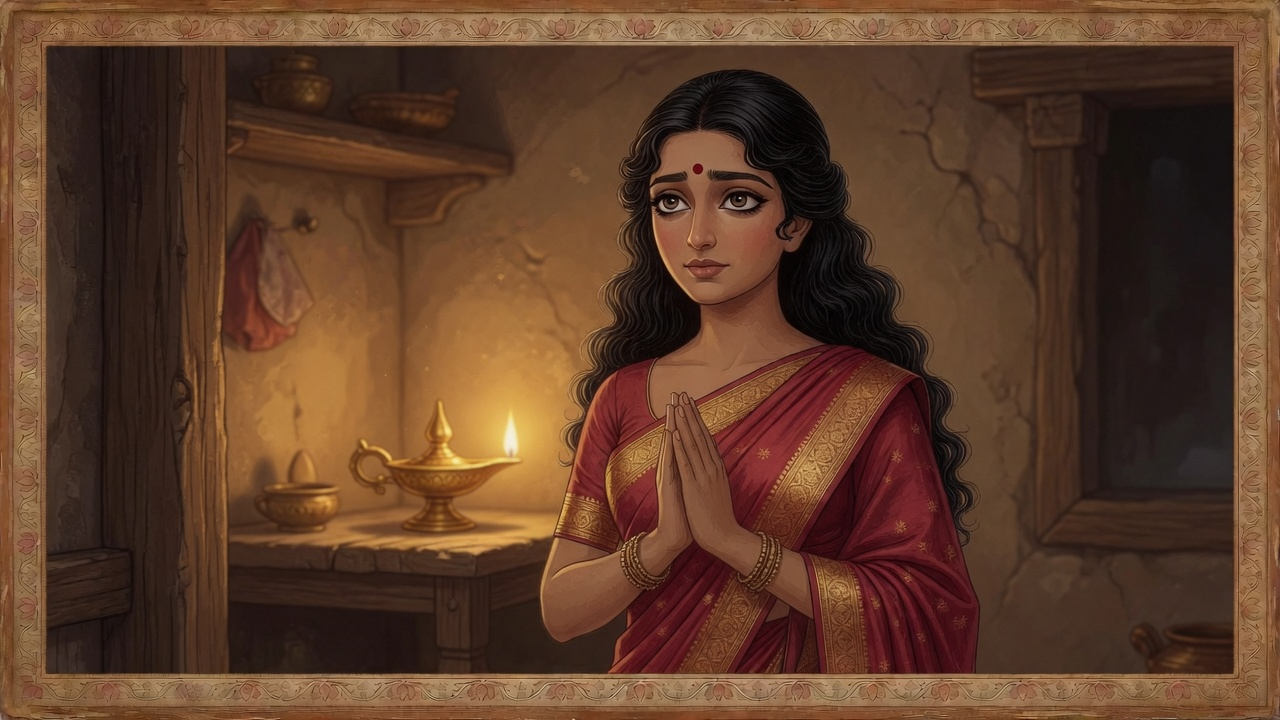
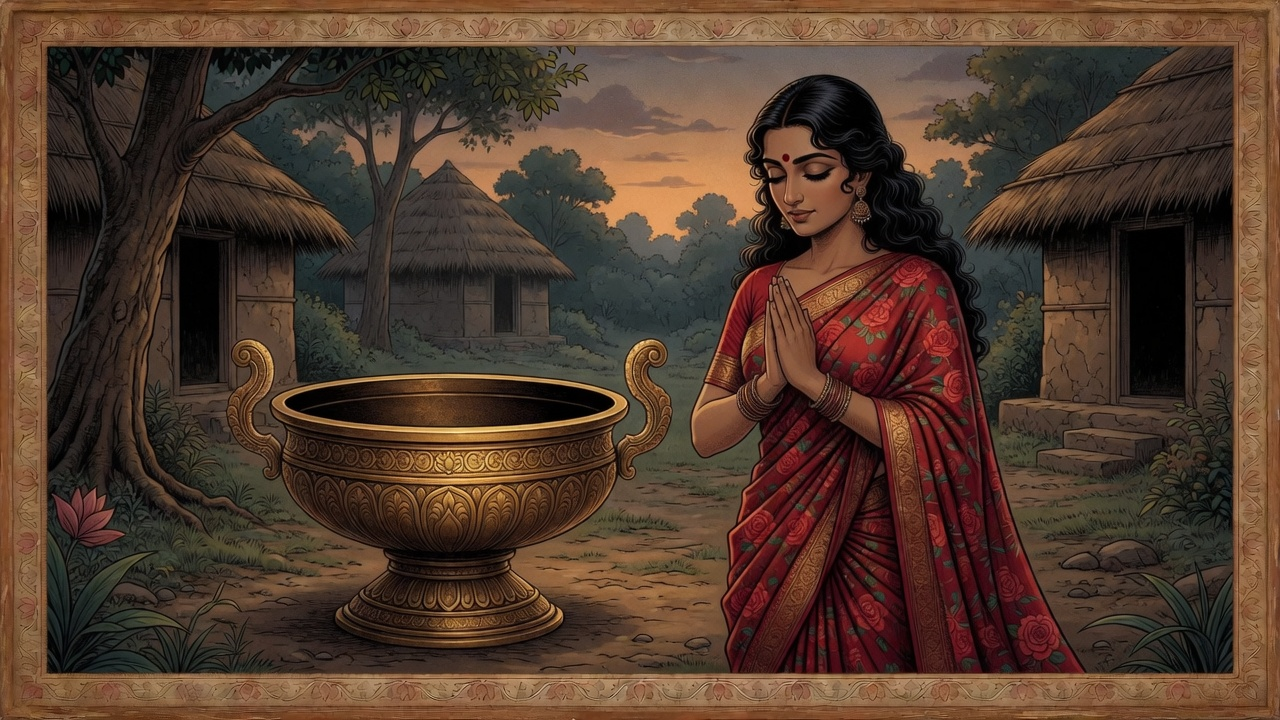
fix(mahabharata): Ep04 vessel lock consistency + exile panel 1
Canonical Akshayapatra bowl (handles + pedestal) across vessel/empty/grain/
prayer/close. Replace reused Ep01 bird scene with forest hermitage open.

diff --git a/mahabharata/episodes/04-akshayapatra/script.js b/mahabharata/episodes/04-akshayapatra/script.js
@@ -12,7 +12,7 @@ export const EPISODE = {
   voice: {
     provider: "grok-tts",
     voice_id: "orion",
-    cache: "ep04-v1",
+    cache: "ep04-v2-vessel",
     note: "Grok TTS orion — deep heroic narration",
     base: "episodes/04-akshayapatra/audio/",
   },

diff --git a/mahabharata/play.html b/mahabharata/play.html
@@ -67,6 +67,6 @@
     </div>
   </div>
 
-  <script type="module" src="js/main.js?v=ep04-akshayapatra"></script>
+  <script type="module" src="js/main.js?v=ep04-vessel-v2"></script>
 </body>
 </html>
